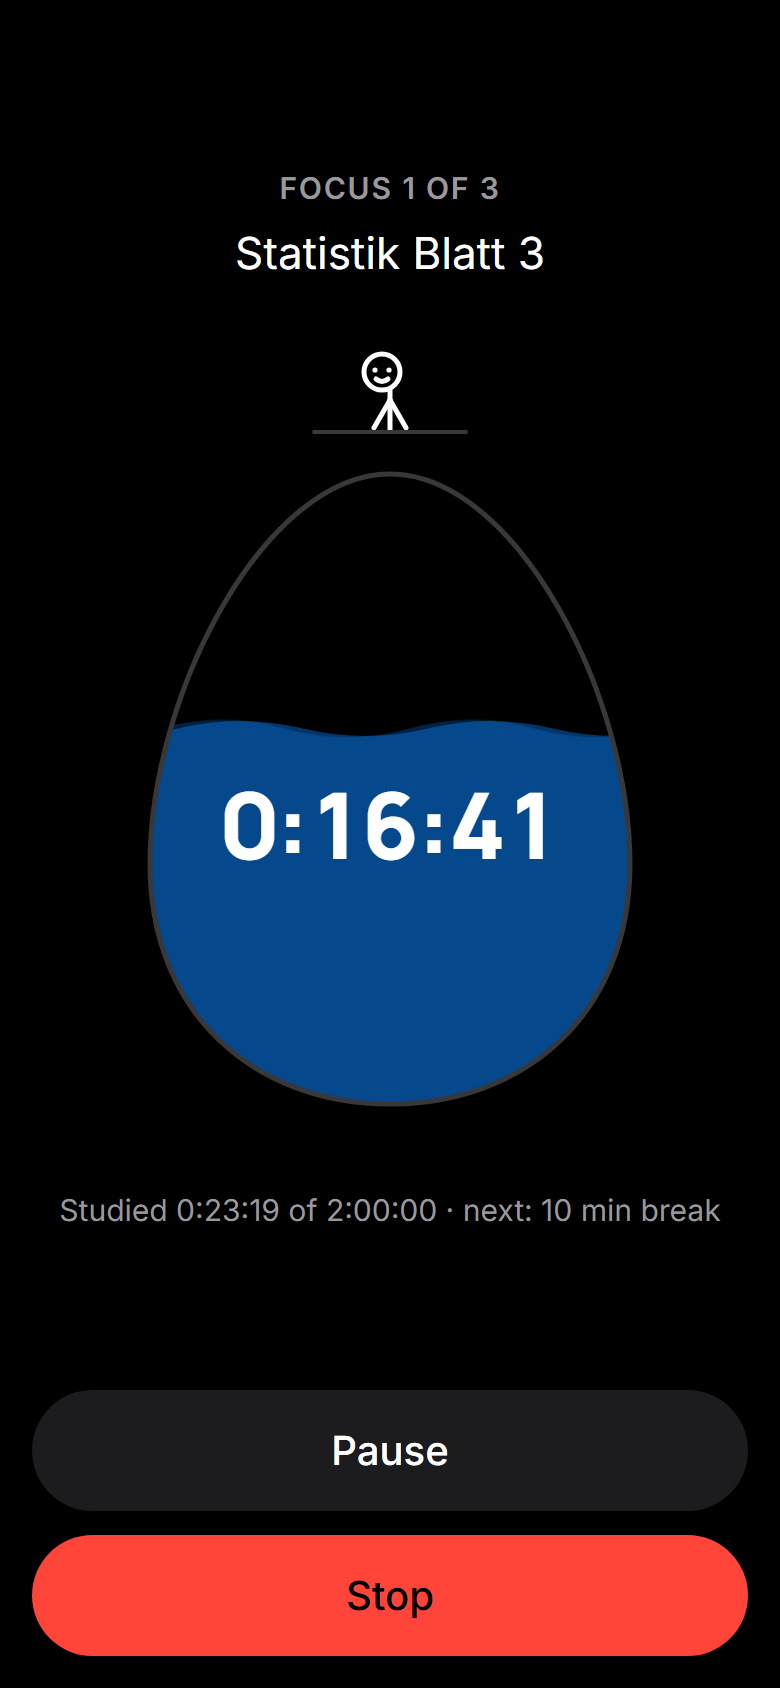
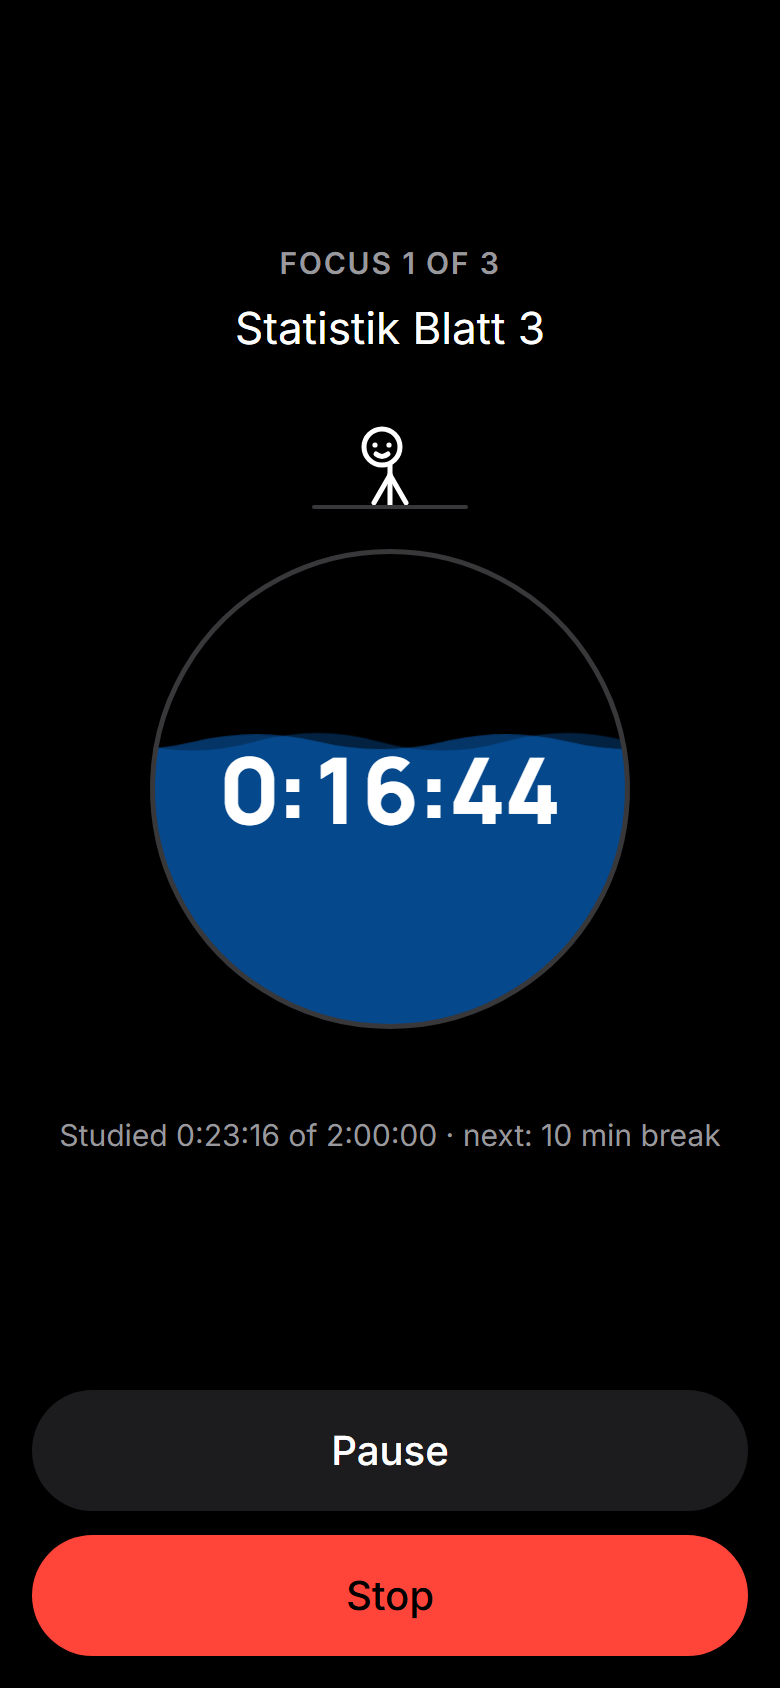
Timer dial: circle instead of egg

diff --git a/index.html b/index.html
@@ -7,10 +7,10 @@
   <!-- Tells the browser this page supports both light and dark mode -->
   <meta name="color-scheme" content="light dark">
   <title>Telos</title>
-  <!-- "?v=10" = version number. Raise it with every release (together with CACHE_NAME
+  <!-- "?v=11" = version number. Raise it with every release (together with CACHE_NAME
        in sw.js): a new address can't come from an old saved copy, so the page,
        its styles and its code always belong to the same version. -->
-  <link rel="stylesheet" href="style.css?v=10">
+  <link rel="stylesheet" href="style.css?v=11">
 
   <!-- Makes the app installable: name, icon, full screen (see manifest.json) -->
   <link rel="manifest" href="manifest.json">
@@ -331,17 +331,17 @@
           <line class="buddy-ledge" x1="22" y1="66" x2="98" y2="66"/>
         </svg>
       </div>
-      <!-- The clock. In Timer mode it sits inside an egg-shaped dial that fills
+      <!-- The clock. In Timer mode it sits inside a round dial that fills
            with water as time passes (full to the brim = block finished). -->
       <div id="dial" class="dial">
-        <svg id="dial-svg" class="dial-svg" viewBox="0 0 200 260" aria-hidden="true" hidden>
+        <svg id="dial-svg" class="dial-svg" viewBox="0 0 200 200" aria-hidden="true" hidden>
           <defs>
-            <!-- Egg shape: narrower at the top, rounder at the bottom. Water only shows inside it. -->
-            <clipPath id="dial-clip"><path d="M100 4 C150 4 196 92 196 160 C196 220 154 256 100 256 C46 256 4 220 4 160 C4 92 50 4 100 4 Z"/></clipPath>
+            <!-- Circle. The water only shows inside it. -->
+            <clipPath id="dial-clip"><path d="M100 5 A95 95 0 1 1 99.99 5 Z"/></clipPath>
           </defs>
           <g clip-path="url(#dial-clip)">
             <!-- Moved up and down by app.js to set the water level -->
-            <g id="water-level" transform="translate(0 265)">
+            <g id="water-level" transform="translate(0 205)">
               <!-- Two wave layers drifting in opposite directions = flowing water.
                    Each path is two wave lengths wide so the drift loops seamlessly. -->
               <path class="wave wave-back" d="M0 0 Q25 -7 50 0 T100 0 T150 0 T200 0 T250 0 T300 0 T350 0 T400 0 V300 H0 Z"/>
@@ -349,7 +349,7 @@
             </g>
           </g>
           <!-- The rim of the dial -->
-          <path class="dial-rim" d="M100 4 C150 4 196 92 196 160 C196 220 154 256 100 256 C46 256 4 220 4 160 C4 92 50 4 100 4 Z"/>
+          <path class="dial-rim" d="M100 5 A95 95 0 1 1 99.99 5 Z"/>
         </svg>
         <p id="timer-display" class="timer-display">0:00:00</p>
       </div>
@@ -382,6 +382,6 @@
     </button>
   </nav>
 
-  <script src="app.js?v=10" defer></script>
+  <script src="app.js?v=11" defer></script>
 </body>
 </html>

diff --git a/app.js b/app.js
@@ -1942,12 +1942,12 @@ function updateTimerDisplay() {
   timerDisplay.textContent = formatDuration(leftMs + 999); // round up: show 0:00:01, never 0:00:00 early
 
   // Water dial: the water rises as the phase goes on, full to the brim at the end.
-  // The egg drawing is 260 units tall: 265 = just below the bottom (empty),
+  // The drawing is 200 units tall: 205 = just below the bottom (empty),
   // -8 = above the top (full, so even the wave dips are over the rim).
   const progress = Math.min(1, Math.max(0, elapsedMs(session) / (phase.min * 60000)));
   dialSvg.removeAttribute("hidden");
   dial.classList.add("has-dial");
-  waterLevel.style.transform = "translateY(" + (265 - progress * 273) + "px)";
+  waterLevel.style.transform = "translateY(" + (205 - progress * 213) + "px)";
   const blocks = session.plan.focus.length;
   timerPhase.hidden = false;
   timerPhase.textContent = phase.type === "focus" ? "Focus " + phase.number + " of " + blocks : "Break";

diff --git a/style.css b/style.css
@@ -1065,7 +1065,7 @@ body.nav-visible .screen {
 /* With the dial showing: a big circle, the digits sit in its middle */
 .dial.has-dial {
   width: min(66vw, 250px);
-  aspect-ratio: 200 / 260; /* egg: a bit taller than wide */
+  aspect-ratio: 1; /* a circle */
 }
 
 .dial-svg {
@@ -1119,7 +1119,7 @@ body.on-break .wave {
 .dial.has-dial .timer-display {
   position: relative; /* above the water */
   font-size: clamp(34px, 11vw, 46px);
-  margin-top: 14%; /* a bit lower, where the egg is widest */
+  margin-top: 0; /* digits in the middle of the circle */
 }
 
 @media (prefers-reduced-motion: reduce) {
@@ -1754,7 +1754,7 @@ body.on-break .big-btn:not(.danger) {
     margin-bottom: 0;
   }
 
-  /* A bigger egg and digits on the timer */
+  /* A bigger dial and digits on the timer */
   .dial.has-dial {
     width: min(42vh, 320px);
   }

diff --git a/sw.js b/sw.js
@@ -4,14 +4,14 @@
 
 // Name of our storage box for files. Change it when the LIST of files
 // below changes (e.g. a new file is added), so old copies get cleaned up.
-const CACHE_NAME = "telos-files-v10"; // v10: full-width laptop layout
+const CACHE_NAME = "telos-files-v11"; // v11: round timer dial
 
 // Everything the app needs to start.
 const APP_FILES = [
   "./",
   "./index.html",
-  "./style.css?v=10",
-  "./app.js?v=10",
+  "./style.css?v=11",
+  "./app.js?v=11",
   "./manifest.json",
   "./icons/icon-192.png",
   "./icons/icon-512.png",

diff --git a/README.md b/README.md
@@ -9,7 +9,7 @@ Open it on a phone and choose *Add to Home screen* / *Install app*. It then runs
 
 | Home | Timer | Month & goals |
 |:---:|:---:|:---:|
-| <img src="docs/screenshots/home.png" width="240" alt="Home screen with today's total, goal ring and Start button"> | <img src="docs/screenshots/timer.png" width="240" alt="Timer with an egg-shaped dial filling with water, a stick figure peeking above it"> | <img src="docs/screenshots/stats-month.png" width="240" alt="Month calendar where each day has a ring: green with a tick when the goal was reached, red when missed"> |
+| <img src="docs/screenshots/home.png" width="240" alt="Home screen with today's total, goal ring and Start button"> | <img src="docs/screenshots/timer.png" width="240" alt="Timer with a round dial filling with water, a stick figure peeking above it"> | <img src="docs/screenshots/stats-month.png" width="240" alt="Month calendar where each day has a ring: green with a tick when the goal was reached, red when missed"> |
 | **Day timeline** | **Checklist at the end** | **Week (dark mode)** |
 | <img src="docs/screenshots/day.png" width="240" alt="Calendar-style day view with sessions as blocks at their real times"> | <img src="docs/screenshots/checklist.png" width="240" alt="End-of-session card to tick off checklist items and write a note"> | <img src="docs/screenshots/stats-week.png" width="240" alt="Bar chart of the last 7 days with a daily goal line, dark mode"> |
 
@@ -30,7 +30,7 @@ Study apps either track too little ("you studied 3 h") or ask for too much (acco
 - **Backup.** Export and import all data as JSON. Import *merges* by id, so it never loses data and importing twice is harmless.
 - **Responsive:** phone first; on tablets the layout widens with card grids, and on desktop the navigation becomes a side rail and Stats shows chart and day details side by side.
 - **Installable and offline** (PWA). Light and dark mode follow the phone, and the Android back gesture works between screens.
-- **Small delights:** an opening screen with the app icon and a typewriter intro (*τέλος* → *Telos*) that zooms out into the app, an egg-shaped water dial that fills to the brim, a stick figure who peeks, gasps when you pause and salutes when you stop, and "bubbly" buttons.
+- **Small delights:** an opening screen with the app icon and a typewriter intro (*τέλος* → *Telos*) that zooms out into the app, a round water dial that fills to the brim, a stick figure who peeks, gasps when you pause and salutes when you stop, and "bubbly" buttons.
 
 ## Tech stack
 
